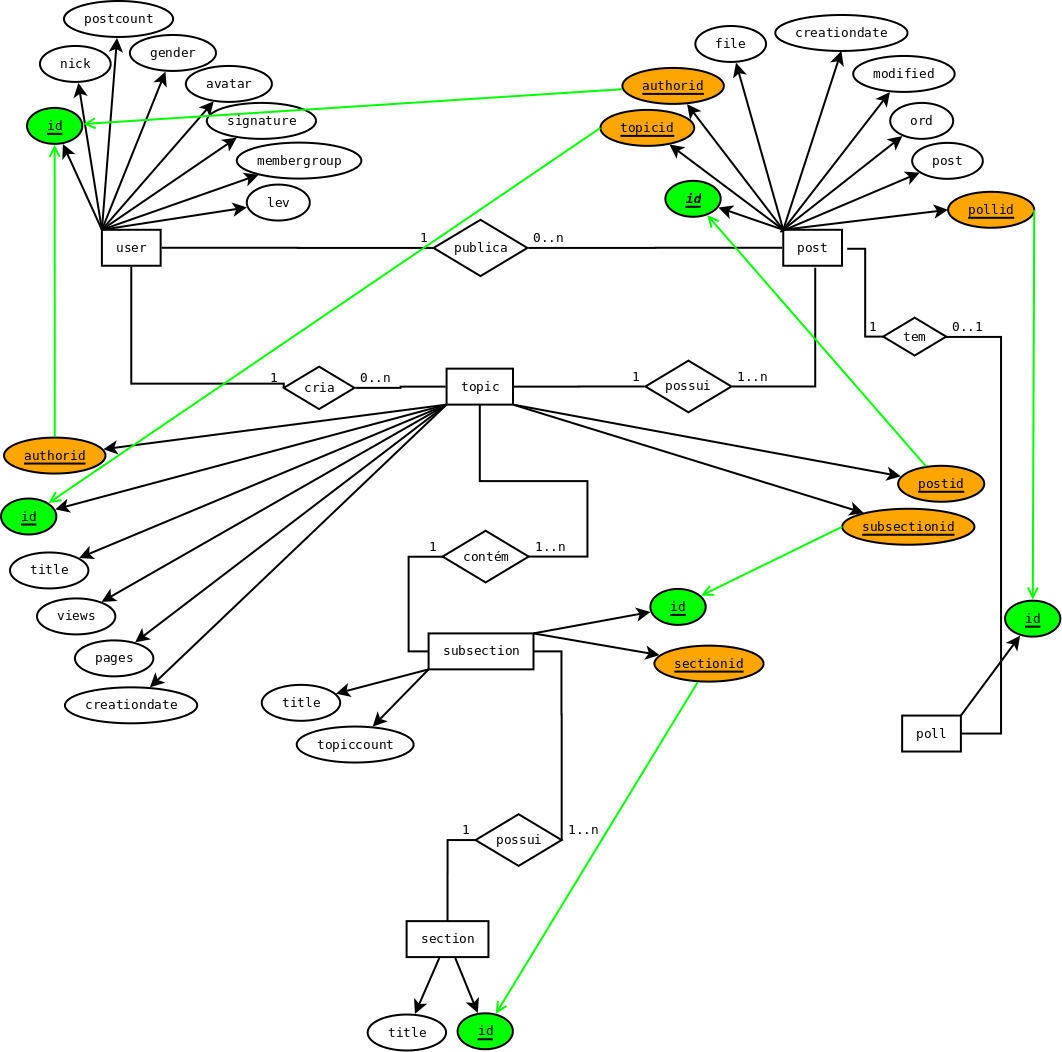
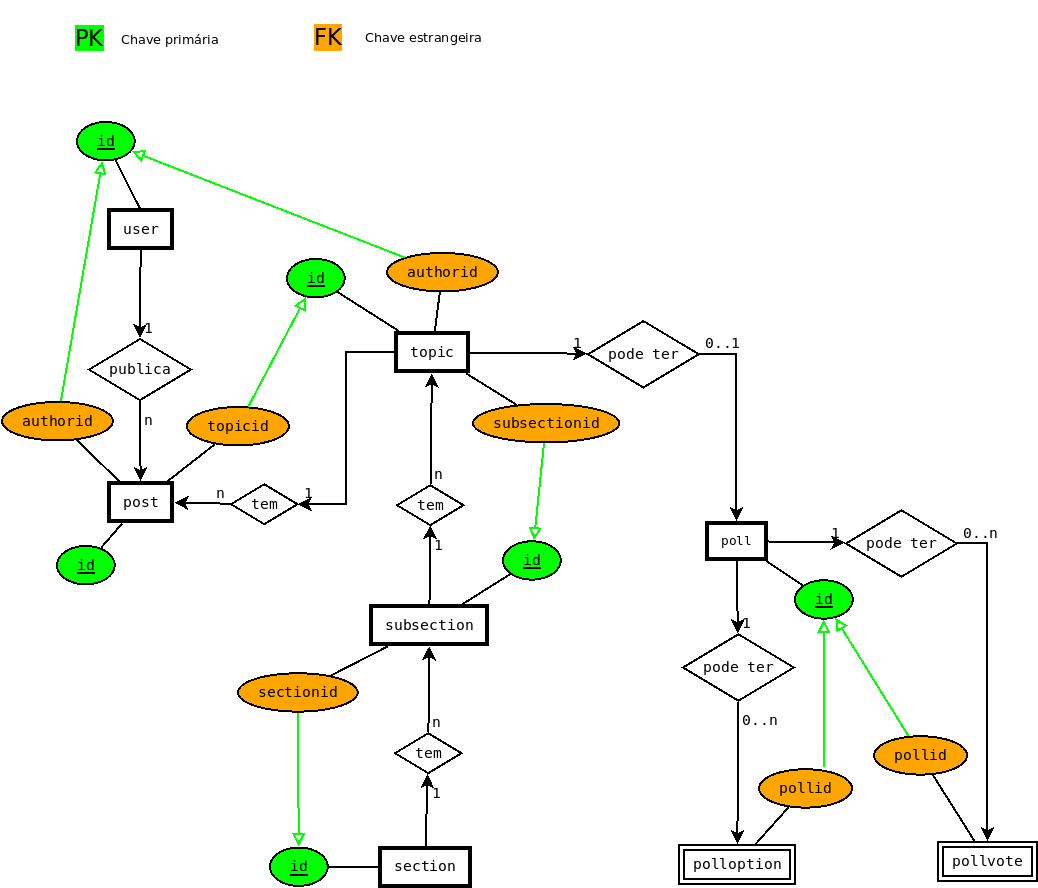
Dump do BD

diff --git a/docs/estruturabd.html b/docs/estruturabd.html
@@ -1,0 +1,260 @@
+<!DOCTYPE html>
+<html lang="pt-br">
+<head>
+    <meta charset="UTF-8">
+    <meta http-equiv="X-UA-Compatible" content="IE=edge">
+    <meta name="viewport" content="width=device-width, initial-scale=1.0">
+    <link rel="stylesheet" href="css/frames.css"/>
+    <title>Estrutura BD</title>
+    <style type="text/css">
+
+        i::before {
+            content: "[";
+        }
+
+        i::after{
+            content: "] ";
+        }
+
+        ol li{
+            font-size: 20px;
+            padding-left: 6px;
+            background-color: salmon;
+        }
+
+        dt{
+             color: var(--h1-color);
+        }
+
+        span.sqlcommand{
+           color: blue;
+        }
+    </style>
+</head>
+<body>
+    <h2>Estrutura do Banco de Dados</h2> 
+    <h3> Tabelas</h3>
+    <ol>
+        <li>users</li>
+        <dl>
+            <dt>id</dt>
+            <dd>
+                <p><i>varchar(26)</i> Chave primária</p> 
+                <p>É uma string com prefixo 'u=' ou 'v='. O prefixo 'u=' é atribuído a usuários registrados e 'v=' a usuários "visitantes" (geralmente usuários desinscritos do fórum)</p>
+            </dd>
+            <dt>nick</dt>
+            <dd>
+                <p><i>varchar(34)</i> O nick do usuário</p> 
+            </dd>
+            <dt>lev</dt>
+            <dd>
+                <p><i>varchar(14)</i> O nível do usuário pelo número de msgs. ou função no fórum</p> 
+            </dd>
+            <dt>membergroup</dt>
+            <dd>
+                <p><i>varchar(22)</i> O grupo do usuário (moderador, webmaster, etc...)</p> 
+            </dd>
+            <dt>postcount</dt>
+            <dd>
+                <p><i>smallint</i> Número de postagens deste usuário</p> 
+            </dd>
+            <dt>gender</dt>
+            <dd>
+                <p><i>enum</i> M ou F</p> 
+            </dd>
+            <dt>avatar</dt>
+            <dd>
+                <p><i>varchar(47)</i> O nome do arquivo de avatar</p> 
+                <p>Arquivos da pasta clubecetico.org/forum/avatares</p>
+            </dd>
+            <dt>blurb</dt>
+            <dt>signature</dt>
+            <dt>signatureText</dt>
+            <dt>descriptions</dt>
+            <dt>profil</dt>
+            <dd>
+                <p>Os registros acima são textos onde o usuário se define ou diz algo sobre si. "signature" armazena o HTML bruto da assinatura do usuário e "signatureText" apenas o texto da assinatura</p>
+            </dd>
+            <dt>sites</dt>
+            <dd><i>text</i> Uma lista de sites fornecida pelo usuário</dd>
+            
+        </dl>
+        <li>topics</li>
+        <dl>
+            <dt>id</dt>
+            <dd><p><i>smallint</i> Chave primária</p></dd>
+            <dt>title</dt>
+            <dd><p><i>text</i> O título do tópico</p></dd>
+            <dt>authorid</dt>
+            <dd><p><i>varchar(26)</i> Chave estrangeira para tabela users</p></dd>
+            <dt>subsectionid</dt>
+            <dd><p><i>tinyint</i> Chave estrangeira para tabela subsections</p></dd>
+            <dt>postid</dt>
+            <dd>
+                <p><i>int</i> Chave estrangeira para tabela posts</p>
+                <p>Aponta para o primeiro post de um tópico</p>
+            </dd>
+            <dt>creationdate</dt>
+            <dd><p><i>timestamp</i> Data de criação do tópico</p></dd>
+            <dt>views</dt>
+            <dd><p><i>int</i> Quantas vezes o tópico foi visualizado</p></dd>
+            <dt>pages</dt>
+            <dd><p><i>smallint</i> Número de páginas do tópico</p></dd>
+            <dt>poll</dt>
+            <dd>
+                <p><i>smallint</i> Um valor diferente de null indica que o tópico tem uma enquete</p>
+                <p>Se o tópico contém enquete o valor desse campo será o mesmo da id do tópico</p>
+                <p>As enquetes podem ter listas de opções de resposta e correspondentes listas de votos para cada opção. Estas listas podem ser recuperadas, respectivamente, nas tabelas polloptions e pollvotes</p>
+                <p>No entanto nem todos os usuários criavam corretamente suas enquetes e às vezes não forneciam uma lista de opções para os foristas votarem</p>
+                <p>Também quando uma enquete não recebeu nenhum voto, não haverá um registro na tabela pollvotes para este tópico. Embora possa haver um registo na tabela polloptions, listando as opções de resposta da enquete</p>
+                <p>O comando abaixo listará todas as enquetes com as opções de resposta e os respectivos votos dados a cada opção</p>
+                <p><span class="sqlcommand">SELECT</span> topics.id, polls.pollquestion, polloptions.option, pollvotes.votes, polls.totalvotes <span class="sqlcommand">FROM</span> topics
+                    <br/><span class="sqlcommand">INNER JOIN</span> polls 
+                    <br/><span class="sqlcommand">INNER JOIN</span> polloptions 
+                    <br/><span class="sqlcommand">INNER JOIN</span> pollvotes
+                    <br/><span class="sqlcommand">WHERE</span> polls.topicid = topics.id 
+                    <br/><span class="sqlcommand">AND</span> polloptions.pollid = polls.id 
+                    <br/><span class="sqlcommand">AND</span> pollvotes.pollid = polls.id
+                    <br/><span class="sqlcommand">AND</span> polloptions.optionindex = pollvotes.votesindex;</p>
+
+            </dd>
+            <dt>ord</dt>
+            <dd><p><i>smallint</i> ord = n indica que o tópico foi o enésimo a ser criado</p></dd>
+            <dt>lastpostid</dt>
+            <dd>
+                <p><i>int</i> Chave estrangeira para tabela posts</p>
+                <p>Aponta para o último post de um tópico</p>
+            </dd>
+            <dt>lastpostdate</dt>
+            <dd><p><i>timestamp</i> A data de criação do último post de um tópico</p></dd>
+            <dt>lockedtopic</dt>
+            <dd><p><i>tinyint(1) ou boolean</i> Indica se o tópico foi trancado</p></dd>
+            <dt>fixedtopic</dt>
+            <dd>
+                <p><i>tinyint(1) ou boolean</i> Indica se o tópico foi fixado</p>
+                <p>Tópicos fixados são sempre exibidos no início de uma página de subseção</p>
+            </dd>
+        </dl>
+        <li>posts</li>
+        <dl>
+            <dt>id</dt>
+            <dd><p><i>int</i> Chave primária</p> </dd>
+            <dt>topicid</dt>
+            <dd><p><i>smallint</i> Chave estrangeira para a tabela topics. Indico o tópico onde foi publicado o post</p></dd>
+            <dt>authorid</dt>
+            <dd><p><i>varchar(26)</i> Chave estrangeira para a tabela users. Indica o autor do post</p></dd>
+            <dt>creationdate</dt>
+            <dd><p><i>timestamp</i>A data de publicação do post</p></dd>
+            <dt>modified</dt>
+            <dd><p><i>varchar(90)</i>Pode ser null ou um texto indicando quando e quem modificou o post</p></dd>
+            <dt>post</dt>
+            <dd><p><i>mediumtext</i>O código HTML bruto do post</p></dd>
+            <dt>ord</dt>
+            <dd><p><i>int</i> ord = n indica que foi o enésimo post a ser publicado no fórum</p></dd>
+            <dt>filename</dt>
+            <dd>
+                <p><i>varchar(12)</i> Indica o nome do arquivo HTML (no conjunto de arquivos da cópia estática) onde se encontra o post</p>
+                <p>A estrutura da URL para localizar um post no servidor é https://clubecetico.org/acervo/forum/topic=xxxx.yyy.html#msgzzzz</p>
+                <p>Onde xxxx é a id do tópico, yyy o núm. da página do tópico onde está o post e zzzz é a id do post</p>
+                <p>No entanto este registro do BD só armazena a parte xxxx.yyy da URL</p>
+                <p>Portanto se o registro filename de um post de id = '1009190' for, por exemplo, '30682.0', então a URL para visualizar este post no navegador será <a href="https://clubecetico.org/acervo/forum/topic=30682.0.html#msg1009190" target="_blank">https://clubecetico.org/acervo/forum/topic=30682.0.html#msg1009190</a></p>
+            </dd>
+        </dl>
+        <li>sections</li>
+        <dl>
+            <dt>id</dt>
+            <dd><p><i>tinyint</i>A id de uma seção contendo subseções do fórum</p></dd>
+            <dt>title</dt>
+            <dd><p><i>varchar(11)</i>O nome da seção</p></dd>
+
+        </dl>
+        <li>subsections</li>
+        <dl>
+            <dt>id</dt>
+            <dd><p><i>tinyint</i>A id de uma subseção contendo tópicos do fórum</p></dd>
+            <dt>title</dt>
+            <dd><p><i>varchar(46)</i>O nome da subseção</p></dd>
+            <dt>sectionid</dt>
+            <dd><p><i>tinyint</i>Chave estrangeira para tabela sections</p></dd>
+            <dt>topiccount</dt>
+            <dd><p><i>smallint</i>A quantidade de tópicos publicados na subseção</p></dd>
+        </dl>
+        <li>polls</li>
+        <dl>
+            <dt>id</dt>
+            <dd><p><i>smallint</i>Chave primária</p></dd>
+            <dt>topicid</dt>
+            <dd><p><i>smallint</i>Chave estrangeira para a tabela topics. Indica o tópico onde foi publicada a enquete</p></dd>
+            <dt>pollquestion</dt>
+            <dd><p><i>mediumtext</i>A pergunta de uma enquete</p></dd>
+            <dt>totalvoltes</dt>
+            <dd><p><i>smallint</i>O total de votos de uma enquete</p></dd>
+            <dt>finished</dt>
+            <dd><p><i>timestamp</i>A data de quando uma enquete foi encerrada ou null se não foi encerrada </p></dd>
+        </dl>
+        <li>polloptions</li>
+        <dl>
+           <dt>pollid</dt>
+           <dd><p><i>smallint</i>Chave estrangeira para a tabela polls</p></dd>
+           <dt>optionindex</dt>
+           <dd>
+               <p><i>tinyint</i>As opções de resposta fornecidas na enquete são indexadas por este campo e correspondem aos índices das respectivas respostas na tabela pollvotes</p>
+               <p>Por exemplo: se uma enquete tem duas opções para resposta como SIM ou NÃO, a 1a opção é numerada com 1 e a segunda com 2. Logo, na tabela pollvotes o número de  votos dados para SIM estará também indexado por 1 e o número de votos para NÃO estará indexado como 2. Para poder se associar os votos dados à sua respectiva opção</p>
+               <p>Para entender como é feita esta associação examine o comando SQL abaixo:</p>
+               <p><span class="sqlcommand">SELECT</span> topics.id, polls.pollquestion, polloptions.option, pollvotes.votes, polls.totalvotes <span class="sqlcommand">FROM</span> topics
+                <br/><span class="sqlcommand">INNER JOIN</span> polls 
+                <br/><span class="sqlcommand">INNER JOIN</span> polloptions 
+                <br/><span class="sqlcommand">INNER JOIN</span> pollvotes
+                <br/><span class="sqlcommand">WHERE</span> polls.topicid = topics.id 
+                <br/><span class="sqlcommand">AND</span> polloptions.pollid = polls.id 
+                <br/><span class="sqlcommand">AND</span> pollvotes.pollid = polls.id
+                <br/><span class="sqlcommand">AND</span> polloptions.optionindex = pollvotes.votesindex;</p>
+                <p>Este comando listará todas as enquetes com seus títulos, a id do tópico onde foram publicadas, cada uma das opções de resposta com os respectivos votos dados a cada uma destas opções e também o total de votos atribuídos em uma enquete</p>
+            </dd>
+            <dt>option</dt>
+            <dd>
+                <p><i>mediumtext</i>É uma opção de resposta. Cada linha nesta tabela é o registro de uma única opção de resposta em uma enquete</p>
+                <p>Se uma enquete do fórum tinha 10 opções para votar então haverá 10 linhas para esta enquete nesta tabela. Uma para cada opção de resposta</p>
+            </dd>
+        </dl>
+        <li>pollvotes</li>
+        <dl>
+            <dt>pollid</dt>
+            <dd><p><i>smallint</i>Chave estrangeira para a tabela polls onde foram dados os votos</p>
+            <dt>votesindex</dt>
+                <dd>
+                    <p><i>tinyint</i>Os votos dados para cada opção de resposta  na enquete são indexados por este campo e correspondem aos índices das respectivas opções na tabela polloptions</p>
+                    <p>Por exemplo: se uma enquete tem duas opções para resposta como SIM ou NÃO, a 1a opção é numerada com 1 e a segunda com 2. Logo, na tabela pollvotes o número de  votos dados para SIM estará também indexado por 1 e o número de votos para NÃO estará indexado como 2. Para poder se associar os votos dados à sua respectiva opção</p>
+                    <p>Para entender como é feita esta associação examine o comando SQL abaixo:</p>
+                    <p><span class="sqlcommand">SELECT</span> topics.id, polls.pollquestion, polloptions.option, pollvotes.votes, polls.totalvotes <span class="sqlcommand">FROM</span> topics
+                     <br/><span class="sqlcommand">INNER JOIN</span> polls 
+                     <br/><span class="sqlcommand">INNER JOIN</span> polloptions 
+                     <br/><span class="sqlcommand">INNER JOIN</span> pollvotes
+                     <br/><span class="sqlcommand">WHERE</span> polls.topicid = topics.id 
+                     <br/><span class="sqlcommand">AND</span> polloptions.pollid = polls.id 
+                     <br/><span class="sqlcommand">AND</span> pollvotes.pollid = polls.id
+                     <br/><span class="sqlcommand">AND</span> polloptions.optionindex = pollvotes.votesindex;</p>
+                     <p>Este comando listará todas as enquetes com seus títulos, a id do tópico onde foram publicadas, cada uma das opções de resposta com os respectivos votos dados a cada uma destas opções e também o total de votos atribuídos em uma enquete</p>
+                 </dd>
+                 <dt>votes</dt>
+                 <dd>
+                     <p><i>smallint</i>Se a coluna votesindex = 3, por exemplo, então a coluna votes desta tabela se refere aos votos dados à opção 3 correspondente na tabela polloptions</p>
+                     <p> Exemplo: suponha uma linha desta tabela com pollid = 100, votesindex = 2 e votes = 15. Significa que a opção 2 (polloptions.optionindex = 2) da enquete com id = 100 recebeu 15 votos</p>
+                 </dd>
+        </dl>
+
+    </ol>
+
+    <hr>
+
+    <h3>Comando SQL para criar o banco:</h3>
+
+    <p><span class="sqlcommand">CREATE DATABASE</span> `cc` <span class="sqlcommand">DEFAULT CHARACTER SET</span> utf8mb4 <span class="sqlcommand">COLLATE</span> utf8mb4_bin <span class="sqlcommand">DEFAULT ENCRYPTION='N'</span>;</p>
+
+    <hr>
+
+    <a href="documentacao.html" target="frame" class="nav-button nav-button-prev">Anterior</a>
+
+    <a href="er.html" target="frame" class="nav-button nav-button-next">Próxima</a>   
+</body>
+</html>

diff --git a/docs/index.html b/docs/index.html
@@ -13,10 +13,10 @@
     <nav id="nav-bar">
         <ul id="menu">
             <li>
-                <a href="https://mega.nz/file/xxxxxxxxxxxxxxx" target="_blank">Downloads</a>
+                <a href="https://mega.nz/file/NnoCCbDB#qZH6wkciHcBKhdUbLjaiaW4Xp9Pv5x4wlHi8v2xSk3M" target="_blank">Downloads</a>
             </li>
             <div>
-                <p>Baixe arquivos que não estão no repositório</p>
+                <p>Baixe o dump do banco de dados</p>
             </div>
             <li>
                 <a href="https://github.com/phedroreis/php-huugle" target="_blank">GitHub</a>
@@ -39,9 +39,10 @@
             <li><a href="introducao.html" target="frame">INTRODUÇÂO</a></li>
             <li><a href="documentacao.html" target="frame">DOCUMENTAÇÃO DO CÓDIGO</a></li>
 
-            <li><a href="estrutura-de-pacotes.html" target="frame">DIAGRAMAS</a></li>
+            <li><a href="estruturabd.html" target="frame">BANCO DE DADOS</a></li>
             <ul id="indice-level2">
-                <li><a href="estrutura-de-pacotes.html" target="frame">Pacotes</a></li>
+                <!-- <li><a href="estrutura-de-pacotes.html" target="frame">Pacotes</a></li> -->
+                <li><a href="estruturabd.html" target="frame">Estrutura do Banco de Dados</a></li>
                 <li><a href="er.html" target="frame">Diagrama ER</a></li>
             </ul>
         </ul>

diff --git a/docs/er.html b/docs/er.html
@@ -13,8 +13,8 @@
 
     <hr>
 
-    <a href="estrutura-de-pacotes.html" target="frame" class="nav-button nav-button-prev">Anterior</a>
+    <a href="estruturabd.html" target="frame" class="nav-button nav-button-prev">Anterior</a>
 
-    <a href="manual.html" target="frame" class="nav-button nav-button-next">Próxima</a>   
+    <!--<a href="manual.html" target="frame" class="nav-button nav-button-next">Próxima</a>  --> 
 </body>
 </html>

diff --git a/docs/documentacao.html b/docs/documentacao.html
@@ -120,7 +120,7 @@
 
         <a href="introducao.html" target="frame" class="nav-button nav-button-prev">Anterior</a>
 
-        <a href="estrutura-de-pacotes.html" target="frame" class="nav-button nav-button-next">Próxima</a>
+        <a href="estruturabd.html" target="frame" class="nav-button nav-button-next">Próxima</a>
 
     </footer>
     

diff --git a/docs/introducao.html b/docs/introducao.html
@@ -11,7 +11,7 @@
 <body>
   <section id="top" class="frame-section">
   
-    <h2>Objetivo do Projeto</h2>
+    <h2>Objetivo</h2>
     <p>
         Desenvolver uma ferramenta "server-side" de pesquisa para localizar tópicos e posts na cópia estática do Fórum Clube Cético a partir de palavras chaves. 
     </p>
